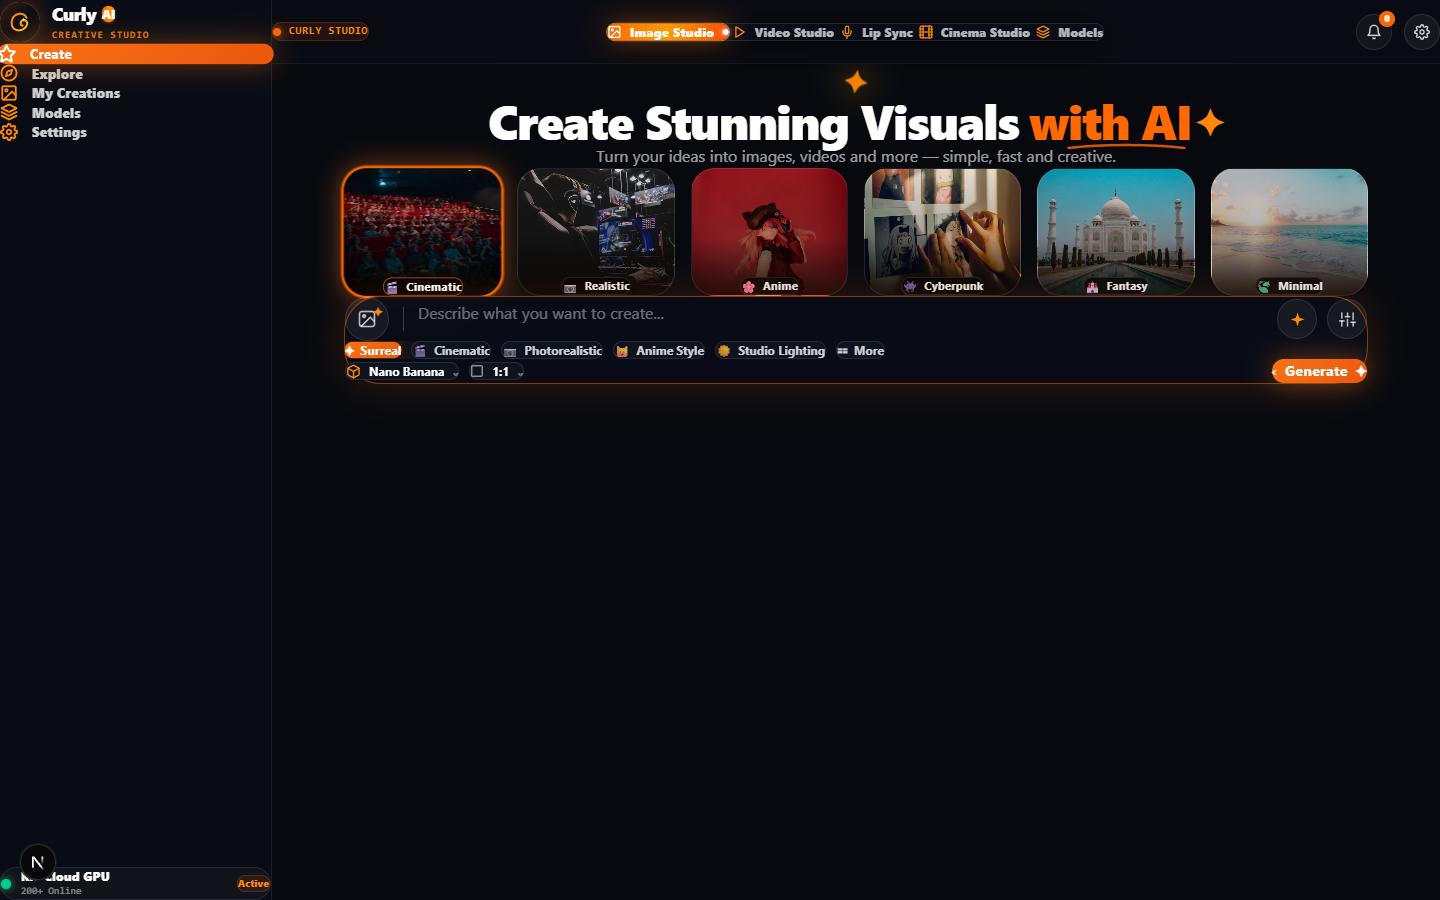
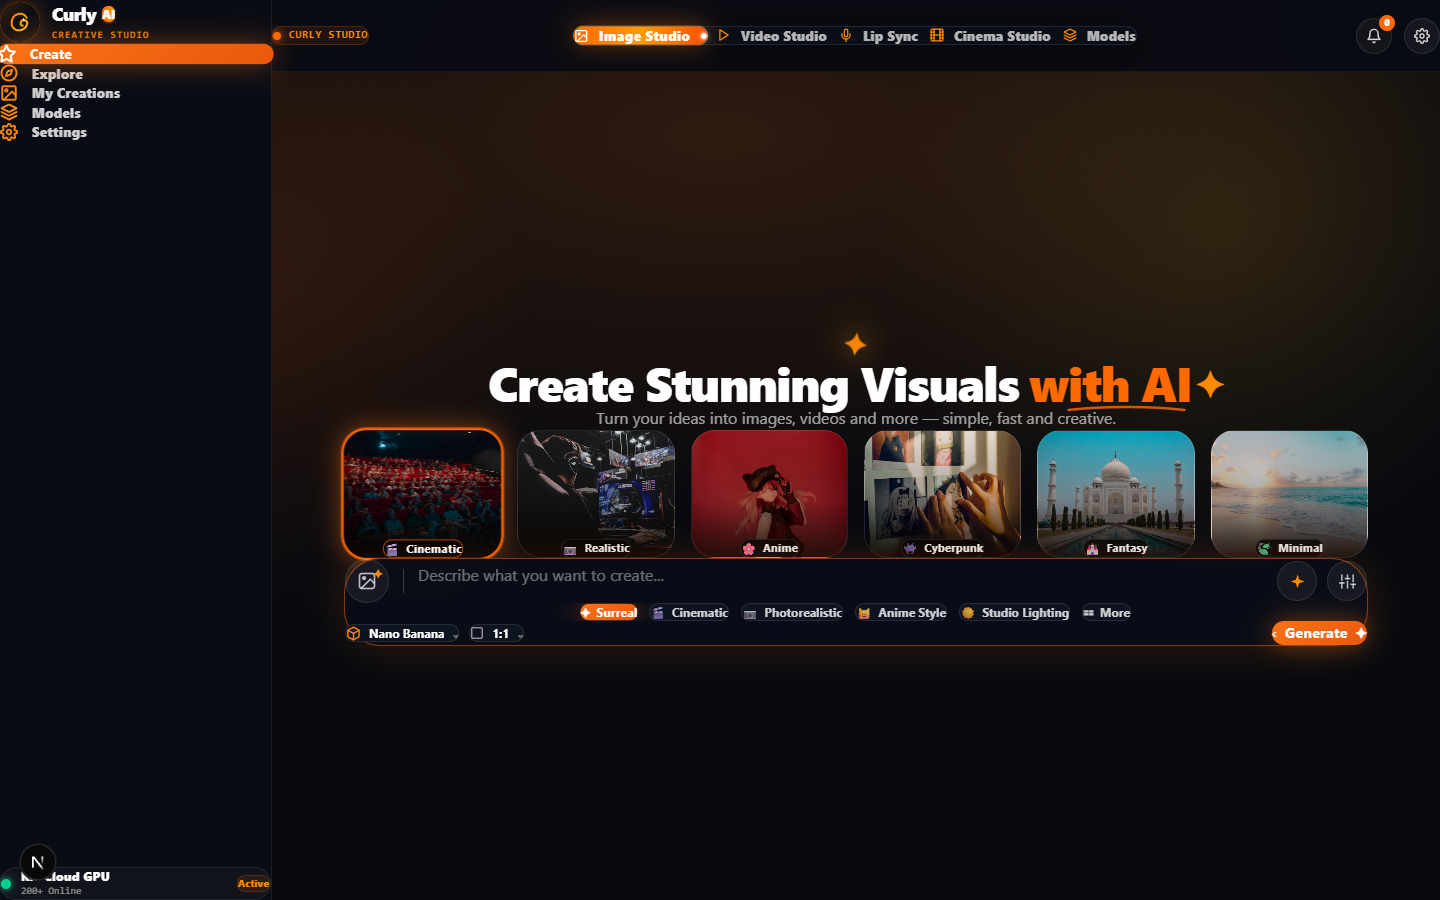
style: center chatbot workspace and add comfortable gaps to top menu

Changed region(s): [[0.1875, 0.0, 0.9688, 0.7467], [0.2188, 0.6844, 0.375, 0.7156], [0.9375, 0.0, 1.0, 0.0622]]

diff --git a/components/StandaloneShell.js b/components/StandaloneShell.js
@@ -348,7 +348,7 @@ export default function StandaloneShell() {
       <div className="flex-1 flex flex-col h-full overflow-hidden relative z-10">
 
         {/* ── TOP HEADER (DYNAMIC GLOWING 5-TAB CAPSULE + GEAR) ────── */}
-        <header className="flex-shrink-0 flex items-center justify-between px-4 sm:px-8 py-3 bg-[#080b12]/95 backdrop-blur-2xl border-b border-white/[0.06] z-30 min-h-[64px]">
+        <header className="flex-shrink-0 flex items-center justify-between px-6 sm:px-10 py-3.5 bg-[#080b12]/95 backdrop-blur-2xl border-b border-white/[0.06] z-30 min-h-[72px]">
           
           {/* Left: Mobile hamburger menu or Desktop Studio Indicator */}
           <div className="flex items-center gap-2 min-w-[140px]">
@@ -358,16 +358,16 @@ export default function StandaloneShell() {
             >
               ☰
             </button>
-            <div className="hidden md:flex items-center gap-2 px-3 py-1.5 rounded-full bg-orange-500/10 border border-orange-500/20 backdrop-blur-md">
+            <div className="hidden md:flex items-center gap-2 px-3.5 py-1.5 rounded-full bg-orange-500/10 border border-orange-500/20 backdrop-blur-md">
               <span className="w-2 h-2 rounded-full bg-orange-500 animate-pulse shadow-[0_0_8px_#f97316]" />
               <span className="text-[11px] font-black text-orange-400 font-mono tracking-wider uppercase">Curly Studio</span>
             </div>
             <span className="font-bold text-sm tracking-wide text-white md:hidden">Curly AI</span>
           </div>
 
-          {/* Desktop Center Pill Navigation - Dynamic Animated Glass Capsule (5 Tabs) */}
+          {/* Desktop Center Pill Navigation - Dynamic Animated Glass Capsule with Generous Gaps (5 Tabs) */}
           <div className="hidden md:flex flex-1 justify-center">
-            <nav className="flex items-center gap-1.5 p-1.5 rounded-full border border-white/10 bg-[#0a0e17]/85 shadow-[0_8px_32px_rgba(0,0,0,0.6)] backdrop-blur-2xl transition-all duration-300">
+            <nav className="flex items-center gap-3 p-2 rounded-full border border-white/10 bg-[#0a0e17]/90 shadow-[0_8px_32px_rgba(0,0,0,0.6)] backdrop-blur-2xl transition-all duration-300">
               {TABS.map((tab) => {
                 const isActive = currentView === 'create' && activeTab === tab.id;
                 return (
@@ -381,7 +381,7 @@ export default function StandaloneShell() {
                         setCurrentView('create');
                       }
                     }}
-                    className={`relative px-4 py-2 text-xs font-black rounded-full transition-all duration-300 flex items-center gap-2 cursor-pointer whitespace-nowrap group ${
+                    className={`relative px-5 py-2.5 text-xs sm:text-[13px] font-black rounded-full transition-all duration-300 flex items-center gap-2.5 cursor-pointer whitespace-nowrap group ${
                       isActive
                         ? 'bg-gradient-to-r from-orange-500 via-amber-500 to-orange-600 text-white shadow-[0_0_25px_rgba(249,115,22,0.5)] ring-1 ring-orange-300/60 scale-[1.03]'
                         : 'text-white/70 hover:text-white hover:bg-white/[0.08] hover:scale-[1.02]'
@@ -433,8 +433,8 @@ export default function StandaloneShell() {
           </div>
         </header>
 
-        {/* ── MAIN CONTENT AREA (DYNAMIC VIEW ROUTING) ── */}
-        <main className="flex-1 overflow-y-auto overflow-x-hidden relative custom-scrollbar">
+        {/* ── MAIN CONTENT AREA (DYNAMIC VIEW ROUTING & CENTERED WORKSPACE) ── */}
+        <main className="flex-1 flex flex-col items-center justify-center overflow-y-auto overflow-x-hidden relative custom-scrollbar">
           {/* Create Studio View */}
           {currentView === 'create' && (
             <>

diff --git a/packages/studio/src/components/ImageStudio.jsx b/packages/studio/src/components/ImageStudio.jsx
@@ -925,7 +925,7 @@ export default function ImageStudio({ apiKey, onGenerationComplete, historyItems
 
   // ── Render ───────────────────────────────────────────────────────────────
   return (
-    <div className="w-full h-full flex flex-col items-center justify-start bg-app-bg relative p-4 md:p-8 py-8 sm:py-12 overflow-y-auto custom-scrollbar overflow-x-hidden">
+    <div className="w-full min-h-full flex-1 flex flex-col items-center justify-center bg-transparent relative p-4 md:p-8 py-6 sm:py-10 overflow-y-auto custom-scrollbar overflow-x-hidden">
 
       {/* ── CANVAS VIEW ─────────────────────────────────────────────────── */}
       {showCanvas && (
@@ -1016,10 +1016,9 @@ export default function ImageStudio({ apiKey, onGenerationComplete, historyItems
         </div>
       )}
 
-      {/* ── PROMPT & IMAGINELAB WORKSPACE VIEW ────────────────────────── */}
       {/* ── PROMPT & IMAGINELAB WORKSPACE VIEW (MATCHES TARGET IMAGE 2) ── */}
       {!showCanvas && (
-        <div className="w-full max-w-5xl flex flex-col items-center justify-start mx-auto px-4 py-6 sm:py-8 animate-fade-in-up">
+        <div className="w-full max-w-5xl flex-1 flex flex-col items-center justify-center mx-auto my-auto px-4 py-4 sm:py-6 animate-fade-in-up">
 
           {/* Centered Golden Sparkle Icon */}
           <div className="w-8 h-8 mx-auto mb-2 text-orange-400 text-3xl flex items-center justify-center sparkle-anim">
@@ -1184,8 +1183,8 @@ export default function ImageStudio({ apiKey, onGenerationComplete, historyItems
               </div>
             )}
 
-            {/* ── ROW 2: Style Preset Buttons (In the middle with comfortable spacing) ── */}
-            <div className="w-full flex items-center gap-2.5 my-5 overflow-x-auto pb-1 select-none custom-scrollbar">
+            {/* ── ROW 2: Style Preset Buttons (Centered with generous gaps) ── */}
+            <div className="w-full flex items-center justify-center gap-2.5 sm:gap-3 my-5 sm:my-6 overflow-x-auto pb-1 select-none custom-scrollbar">
               {STYLE_CHIPS.map((chip) => {
                 const isActive = activeChips.includes(chip.id);
                 return (
